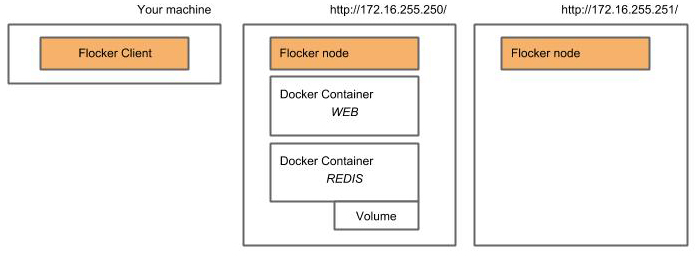
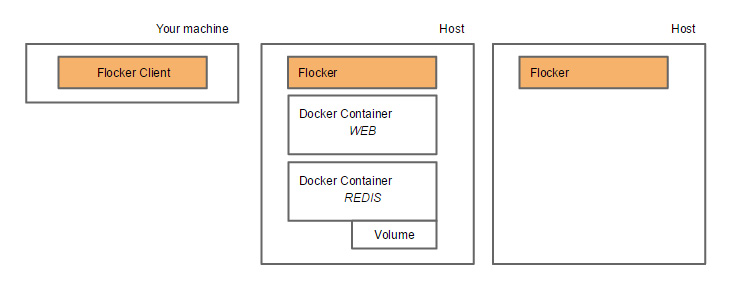
add new images

Changed region(s): [[0.0, 0.0, 0.9914, 0.965]]

diff --git a/docs/using/tryflocker.rst b/docs/using/tryflocker.rst
@@ -9,7 +9,7 @@ In this tutorial (30 minutes)
 
 You will use Flocker to migrate a Docker container with its data volume from one host to another. The container you move will be part of a two-container application, the other container will not move and the two will remain connected even when they are on different hosts.
 
-To begin the tutorial you will first install the Flocker client on your local machine, then install the Flocker node application onto two hosts. You will then be ready to use Flocker to migrate a Docker container with a volume attached from one host to the other.
+To begin the tutorial you will first install the Flocker client on your local machine, then install Flocker onto two hosts. You will then be ready to use Flocker to migrate a Docker container with a volume attached from one host to the other.
 
 .. note:: This tutorial takes roughly 30 minutes, but because there are a few things to download, times might vary depending on the speed of your connection.
 
@@ -21,7 +21,7 @@ You will need
 	- OS X with `Homebrew <http://www.brew.sh/>`_ installed.
 	- Ubuntu 14.04.
 
-2) 	Two hosts for the two instances of Flocker node. The options are:
+2) 	Two hosts for two instances of Flocker. The options are:
 
 	- Two Virtual Machines (VMs) on your local machine. For this tutorial, you are supplied with Vagrant images to create the tutorial environment on VMs using VirtualBox, so you must have `Vagrant <https://www.vagrantup.com/>`_ and `VirtualBox <https://www.virtualbox.org/>`_ installed.
 	- AWS or Rackspace (you will need an account with root access).
@@ -57,7 +57,7 @@ Flocker manages the data migration and the link between the two containers.
 Step 1: Installing the Flocker client
 ^^^^^^^^^^^^^^^^^^^^^^^^^^^^^^^^^^^^^
 
-The Flocker client runs locally on your machine and controls the two Flocker nodes on the hosts. To install the Flocker client, run the following in your terminal:
+The Flocker client runs locally on your machine, and will control the two instances of Flocker located on the hosts. To install the Flocker client, run the following in your terminal:
 
 OS X
 ****
@@ -77,14 +77,14 @@ To test your installation, run the following to check that you have the Flocker 
    
 Successful installation will display the version of Flocker.
 
-Step 2: Installing the Flocker node
-^^^^^^^^^^^^^^^^^^^^^^^^^^^^^^^^^^^
-Option A: Installing the Flocker node on local VMs
-**************************************************
+Step 2: Installing Flocker on your hosts
+^^^^^^^^^^^^^^^^^^^^^^^^^^^^^^^^^^^^^^^^
+Option A: Installing Flocker on local VMs
+*****************************************
 
-.. note:: You must have Vagrant and VirtualBox installed to create the VMs and start the containers for this tutorial.
+.. note:: You must have `Vagrant <https://www.vagrantup.com/>`_ and `VirtualBox <https://www.virtualbox.org/>`_  installed to create the VMs and start the containers for this tutorial.
 
-In Step 1 you installed the Flocker client on your local machine. You now need two instances of the Flocker node, each on a separate host. The Flocker node manages the links, ports, and volumes associated with Docker containers and can move them around after deployment. To install the Flocker node (plus dependencies), run the following commands and Vagrant will create the environments you need: 
+In Step 1 you installed the Flocker client on your local machine. For the next step in this tutorial you now need two instances of Flocker, each on a separate host. Flocker manages the links, ports, and volumes associated with Docker containers and can move them around after deployment. To install Flocker (plus dependencies) on the hosts, run the following commands and Vagrant will create the environments you need: 
 
 .. code-block:: console
 
@@ -95,23 +95,18 @@ In Step 1 you installed the Flocker client on your local machine. You now need t
 	  [ -e "${SSH_AUTH_SOCK}" ] || eval $(ssh-agent) && \
 	  ssh-add ~/.vagrant.d/insecure_private_key
 
-.. note:: To test your installation, run the following to check that you have the Flocker client installed correctly:
+To test your installation, run the following to check that you have the Flocker client installed correctly:
 
-   .. code-block:: console
+.. code-block:: console
  
 	you@laptop:~$ vagrant ssh node1 -c "flocker-reportstate --version" 
 
-   Successful installation will display the version of Flocker, and confirm the closure of the connection:
+Successful installation will display the version of Flocker, and confirm the closure of the connection.
 
-   .. code-block:: console
+Option B: Installing Flocker on AWS or Rackspace
+************************************************
 
-	0.4.0
-	Connection to 127.0.0.1 closed.
-
-Option B: Installing the Flocker node on AWS or Rackspace
-*************************************************************************
-
-The two instances of the Flocker node each run on a separate host. The Flocker node manages the links, ports, and volumes associated with Docker containers and can move them around after deployment. To install the Flocker node (plus dependencies), follow the links to the direct instructions:
+The two instances of Flocker each run on a separate host. Flocker manages the links, ports, and volumes associated with Docker containers and can move them around after deployment. To install Flocker (plus dependencies), follow the links to the direct instructions:
 
 - :ref:`AWS install instructions <aws-install>`
 - :ref:`Rackspace install instructions <rackspace-install>`
@@ -119,7 +114,7 @@ The two instances of the Flocker node each run on a separate host. The Flocker n
 Step 3: Deploying an app on the first host
 ^^^^^^^^^^^^^^^^^^^^^^^^^^^^^^^^^^^^^^^^^^
 
-You will now have the Flocker client installed on your local machine and two instances of the Flocker node, each on a different host. Now you will create two Docker containers on one of the hosts. One is a web application and the other is redis database application, which stores its data on a volume.
+You will now have the Flocker client installed on your local machine and two instances of Flocker, each on a different host. Now you will create two Docker containers on one of the hosts. One is a Python web application and the other is Redis server, which stores its data on a volume.
 
 First, download the sample Python web application and Redis server that we have provided on GitHub:
 
@@ -140,17 +135,16 @@ Visit http://172.16.255.250/ (or the IP of the first host that you are using). Y
 
 Visit http://172.16.255.251/ (or the IP of the second host that you are using). You will see that the count persists because Flocker routes the traffic from either host named in the deployment file to the one that has the application.
 
-.. note:: Run the following from within the vagrant-flocker folder to check that the Redis container is running on the first host:
+Run the following from within the vagrant-flocker folder to check that the Redis container is running on the first host:
 
    .. code-block:: console
    
 	 you@laptop:~$ cd vagrant-flocker
 	 you@laptop:~$ vagrant ssh node1 -c "docker ps" 
      
-
-   You should see the Redis container in the output from Docker.
+You should see the Redis container in the output from Docker.
    
-   If you are running on AWS, manually SSH onto the first node and run :code:`docker ps` to see the same output.
+If you are running on AWS, manually SSH onto the first node and run :code:`docker ps` to see the same output.
 
 Step 4: Migrating a container to the second host
 ^^^^^^^^^^^^^^^^^^^^^^^^^^^^^^^^^^^^^^^^^^^^^^^^
@@ -172,17 +166,16 @@ Visit http://172.16.255.250/ (or the IP of the first host that you are using). Y
 
 Visit http://172.16.255.251/ (or the IP of the second host that you are using). You will see that the count still persists, even though the container with the volume has moved between hosts.
 
-.. note:: Run the following from within the vagrant-flocker folder to check that the Redis container is running on the first host:
+Run the following from within the vagrant-flocker folder to check that the Redis container is running on the first host:
 
    .. code-block:: console
    
 	 you@laptop:~$ cd vagrant-flocker
 	 you@laptop:~$ vagrant ssh node2 -c "docker ps" 
      
+You should see the Redis container in the output from Docker.
 
-   You should see the Redis container in the output from Docker.
-   
-   If you are running on AWS, manually SSH onto the second node and run :code:`docker ps` to see the same output.
+If you are running on AWS, manually SSH onto the second node and run :code:`docker ps` to see the same output.
 
 Success!
 ^^^^^^^^
